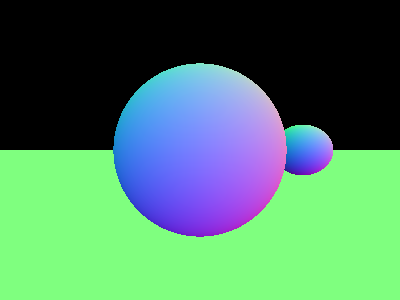
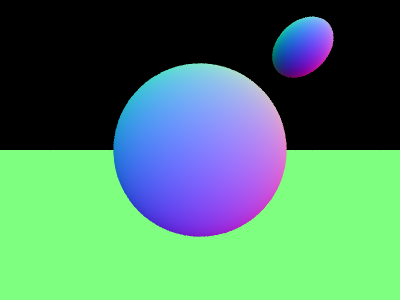
Inclusão de geração de amostras de raios por pixel usando distribuição uniforme

diff --git a/camera.py b/camera.py
@@ -1,13 +1,13 @@
-import numpy as np
 import utils
+import numpy as np
 
-from ray import Ray
-from world import World
 from hit import Hit
-from tqdm import tqdm
 from PIL import Image
+from ray import Ray
+from tqdm import tqdm
+from world import World
 
-
+# NOTE: Maybe create a function to get position of pixel based on input i, j (function receives pixel position i, j and returns its 3D position)
 class Camera:
     def __init__(
             self, 
@@ -16,6 +16,7 @@ class Camera:
             width:int = 400,
             center:np.ndarray = np.array([0.0, 0.0, 0.0]),
             focal_lenght:float = 1.0,
+            samples_per_pixel:int = 10,
 
         ) -> None:
         # Default data
@@ -24,6 +25,10 @@ class Camera:
         self.aspect_ratio = aspect_ratio
         self.center = center
         self.focal_length = focal_lenght
+
+        # Sampling rate
+        self.samples_per_pixel = samples_per_pixel
+        self._pixel_samples_scale = 1.0 / self.samples_per_pixel
 
         # Determine viewport dimensions
         self.height:int = int(self.width / self.aspect_ratio)
@@ -51,17 +56,29 @@ class Camera:
         """
         Cast rays and evaluates each color through auxiliary utility function
         """
-        _t_iter:int = self.height * self.width
+        _t_iter:int = self.height * self.width * self.samples_per_pixel
         _progress_bar = tqdm(total=_t_iter, desc="Progress", unit="iter")
 
         for j in range(0, self.height):
             for i in range(0, self.width):
-                pixel_center:np.ndarray = self.pixel_00_location + (i * self.pixel_delta_u) + (j * self.pixel_delta_v)
-                ray = Ray(self.center, pixel_center - self.center)
+                # pixel_center:np.ndarray = self.pixel_00_location + (i * self.pixel_delta_u) + (j * self.pixel_delta_v)
+                # ray = Ray(self.center, pixel_center - self.center)
 
-                self.pixels[j, i] = utils.write_color(self.ray_color(ray))
+                # self.pixels[j, i] = utils.write_color(self.ray_color(ray))
 
-                _progress_bar.update(1)
+                # _progress_bar.update(1)
+                pixel_color:np.ndarray = np.array([0.0, 0.0, 0.0]) # Initial pixel color. Will be defined as the average of samples!
+
+                # For each predefined sample, generates a ray and calculates its color contribution, updating initial_color value
+                for sample in range(0, self.samples_per_pixel):
+                    ray = self.sample_ray(i, j)
+                    pixel_color += self.ray_color(ray)
+                    _progress_bar.update(1)
+            
+                avg_samples_color:np.ndarray =  np.divide(pixel_color, self.samples_per_pixel)
+            
+                self.pixels[j, i] = utils.write_color(avg_samples_color)
+
 
         # NOTE: Maybe put this in other function
         image = Image.fromarray(self.pixels)
@@ -72,16 +89,28 @@ class Camera:
         hit:Hit | None = self.world.get_nearest_hit(ray)
 
         if hit:
-            # print(f"a")
-            # n = normalize(ray.at(hit) - np.array([0.0, 0.0, -1.0]))
             return 0.5 * np.array([
                 hit.normal[0] + 1,
                 hit.normal[1] + 1,
                 hit.normal[2] + 1,
             ])
-            # return 0.5 * (hit.normal + np.array([1.0, 1.0, 1.0]))
         else:
-            # print(f"b")
             return np.array([0.0, 0.0, 0.0])
+
+
+    def sample_ray(self, pixel_i:int, pixel_j:int) -> Ray:
+        """
+        Generates a random ray with origin at the camera center and direction to the surrounding of current pixel (i, j)
+        The direction point is randomly chosen by a uniform distribution function
+        """
+        offset:np.ndarray = utils.sample_square()
+
+        pixel_sample:np.ndarray = (
+            self.pixel_00_location
+            + ((pixel_i + offset[0]) * self.pixel_delta_u)
+            + ((pixel_j + offset[1]) * self.pixel_delta_v)
+        )
+
+        return Ray(self.center, pixel_sample - self.center)
 
     

diff --git a/main.py b/main.py
@@ -1,55 +1,16 @@
 import numpy as np
 
-
 from sphere import Sphere
 from world import World
 from hittable import Hittable
 from plane import Plane
 from camera import Camera
 
-# def ray_color(ray:Ray, world:World) -> np.ndarray:
-#     hit:Hit | None = world.get_nearest_hit(ray)
-
-#     if hit:
-#         # print(f"a")
-#         # n = normalize(ray.at(hit) - np.array([0.0, 0.0, -1.0]))
-#         return 0.5 * np.array([
-#             hit.normal[0] + 1,
-#             hit.normal[1] + 1,
-#             hit.normal[2] + 1,
-#         ])
-#         # return 0.5 * (hit.normal + np.array([1.0, 1.0, 1.0]))
-#     else:
-#         # print(f"b")
-#         return np.array([0.0, 0.0, 0.0])
 
 def main():
-    # Image
-    # aspect_ratio:float = 4.0 / 3.0
-    # image_width:int = 400
-    # image_height:int = max(1, int(image_width / aspect_ratio))
-
-    # # Camera
-    # focal_length:float = 1.0
-    # viewport_height:float = 2.0
-    # viewport_width:float = viewport_height * (float(image_width) / image_height)
-    # camera_center:np.ndarray = np.array([0.0, 0.0, 0.0])
-    
-    # viewport_u:np.ndarray = np.array([viewport_width, 0.0, 0.0])
-    # viewport_v:np.ndarray = np.array([0, -viewport_height, 0.0])
-
-    # pixel_delta_u:np.ndarray = viewport_u / image_width
-    # pixel_delta_v:np.ndarray = viewport_v / image_height
-
-    # viewport_upper_left:np.ndarray = camera_center - np.array([0.0, 0.0, focal_length]) - (viewport_u / 2) - (viewport_v / 2)
-
-    # pixel_00_loc = viewport_upper_left + 0.5 * (pixel_delta_u + pixel_delta_v) # TODO: This 0.5 need to be changed in order to make sampling
-
-    
-    # World
     world = World([
         Hittable(surface=Sphere(np.array([0.0, 0.0, -1.0]), 0.5)),
-        Hittable(surface=Sphere(np.array([2.0, 0.0, -3.0]), 0.5)),
+        Hittable(surface=Sphere(np.array([2.0, 2.0, -3.0]), 0.5)),
         Hittable(surface=Plane(np.array([0.0, 3.0, 0.0]), np.array([0.0, 1.0, 0.0])))
     ])
 
@@ -57,9 +18,6 @@ def main():
     camera = Camera(world=world)
 
     camera.render()
-    
-    # print(f"\nDone")
-    # image.show()
 
 
 if __name__ == "__main__":

diff --git a/utils.py b/utils.py
@@ -1,5 +1,6 @@
-import numpy as np
 import math
+import numpy as np
+import random
 
 HIT_TOLERANCE = 1e-5
 
@@ -21,3 +22,16 @@ def normalize(vector:np.ndarray) -> np.ndarray:
     Receives a arbitrary vector and returns its normalized version
     """
     return vector / np.linalg.norm(vector)
+
+
+def sample_square() -> np.ndarray:
+    """
+    Generates a random sample point within the unit square centered at the origin. We then transform the random sample from this ideal square back to the particular pixel we're currently sampling
+    
+    In other words, generates a real number to offset the ray direction from pixel center randomly
+    """
+    return np.array([
+        random.uniform(0, 1) - 0.5,
+        random.uniform(0, 1) - 0.5,
+        0.0
+    ])

diff --git a/world.py b/world.py
@@ -12,9 +12,6 @@ class World:
         neareast_hit = None
 
         for hittable in self.hittables:
-            # current_hit = hittable.intersects(ray)
-            # neareast_hit = current_hit
-            # print(f"{index}")
             current_hit: Hit | None = hittable.intersects(ray)
 
             # If ray hitted object
@@ -28,5 +25,4 @@ class World:
                     if current_hit.distance_to_origin() < neareast_hit.distance_to_origin():
                         neareast_hit = current_hit
         
-        # # time.sleep(0.3)
         return neareast_hit
